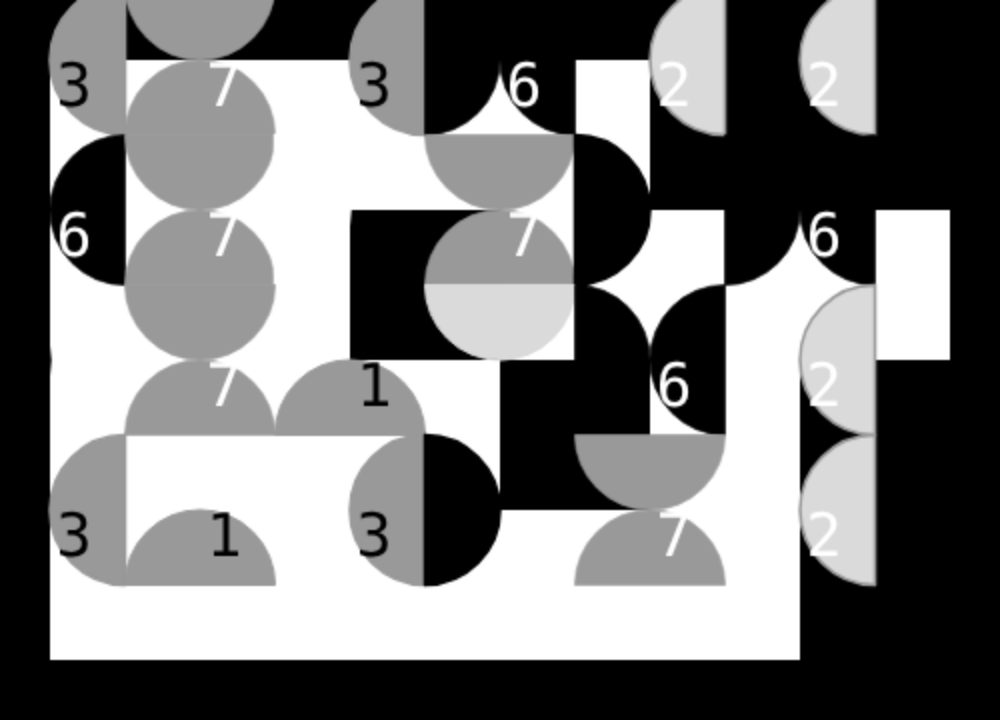
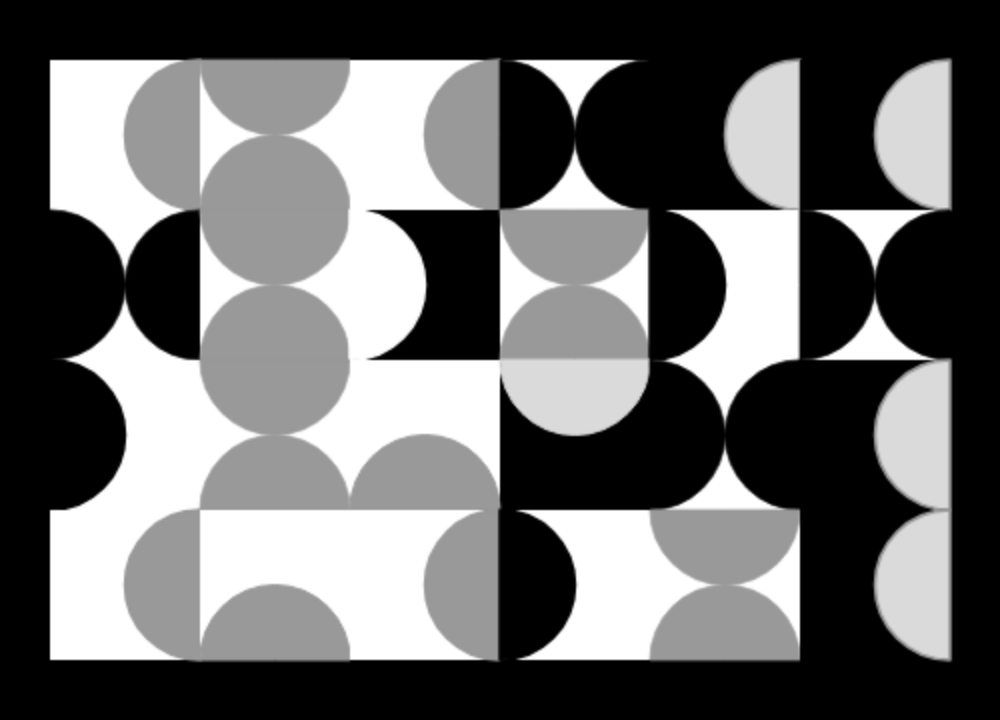
Legacy previews: fix centre-relative position ; digits off ; add full-page refs
Verification against a Silverquote value grid (HalfCircles, 44x26) surfaced a
rendering bug and firmed up the fidelity rules:

- Fix: part position [x,y] is relative to the cell CENTRE, not the top-left corner
  (negative offsets like [0,-12.5] place parts on cell edges). Re-rendered previews.
- Previews now render with digit marks OFF (Silverquote's view toggle) and the default
  black outline, so only shape-bearing previews change.
- Add full-page references (digits off): Default/NestedSquares/Polygram/HalfCircles
  _fullpage.png.
- schemas/pattern.spec.md: document the 3 rendering rules the live engine must honour
  (centre-relative position, default black outline, digit_mark as optional overlay) +
  the sub-pixel seam note. schemas/LEGACY_PATTERNS_REPORT.md: record the cell-for-cell
  verification.

diff --git a/schemas/pattern.spec.md b/schemas/pattern.spec.md
@@ -160,3 +160,22 @@ Script Python/JS complétant le schéma pour les points 5 : résolution des `$re
 ## 8. Points d'extension (lien RFC)
 - **`icon` inline** : ajouter `icon_data` (data-URI/base64) à côté de `icon_url` -> pattern auto-contenu, corrige 6.1. Bon usage de Base64 (binaire).
 - **Forme procédurale** : `type:"script"`, corps **lisible** (tableau de lignes, pas Base64) + **sandbox** (façade restreinte, `contextIsolation`). Concept générique M2 (« réalisation déclarative ou procédurale »), corps concrets en M0.
+
+---
+
+## Rendering rules (fidelity to Silverquote)
+
+Verified cell-for-cell against Silverquote (using an exported value grid). The live
+engine (§15.4 `layer-pattern`) MUST implement these, or renders diverge:
+
+1. **`position: [x, y]` is relative to the cell CENTRE**, not the top-left corner.
+   With `NumberFormat: "absolute"` the offsets are pixels (e.g. `["0","-12.5"]` places
+   a part on the top edge of a 25 px cell); with `"percent"` they are fractions ×
+   `CellSize`. String anchors (`center`, `N`, `NE`, …) are centre-relative too.
+2. **Filled shapes get a default BLACK outline** when the part declares no `drawColor`.
+   An explicit `"drawColor": "none"` suppresses the outline.
+3. **`digit_mark` is an optional VIEW overlay** (Silverquote's `5∣3/6` toolbar toggle),
+   not an always-drawn part — the renderer must be able to hide all digit marks.
+
+Known gap: at non-integer cell sizes, adjacent cell fills can leave thin sub-pixel
+seams (faint grid lines). Snap cell boxes to integer pixels to avoid them.

diff --git a/docs/reboot-kit/LD_FileTree.md b/docs/reboot-kit/LD_FileTree.md
@@ -1,6 +1,6 @@
 # Layout Designer — Repository File Tree
 
-*Generated from `git ls-files` (617 tracked files). Directory-level map; `node_modules` / build / cache folders are collapsed to a count. ★ = live authority file (core contract or architecture spec — read it from HEAD, never recite from memory). Regenerate with `cli_tools/ld_generate_filetree.py` after structural changes, then reload it into Project Knowledge.*
+*Generated from `git ls-files` (620 tracked files). Directory-level map; `node_modules` / build / cache folders are collapsed to a count. ★ = live authority file (core contract or architecture spec — read it from HEAD, never recite from memory). Regenerate with `cli_tools/ld_generate_filetree.py` after structural changes, then reload it into Project Knowledge.*
 
 - **assets/**
   - **legacy/**
@@ -615,9 +615,12 @@
     - arcs.png
     - default.png
     - Default_fullpage.png
+    - HalfCircles_fullpage.png
     - iching.png
     - moire.png
+    - NestedSquares_fullpage.png
     - polygram.png
+    - Polygram_fullpage.png
     - quad-square.png
     - quad-triangle.png
     - rectangles.png

diff --git a/schemas/LEGACY_PATTERNS_REPORT.md b/schemas/LEGACY_PATTERNS_REPORT.md
@@ -67,6 +67,13 @@ the Silverquote Default.pattern display.
 > When the live engine renders `.lygrid` for real (§15.4), port this same default-outline
 > rule into the `layer-pattern` primitive drawing.
 
+## Cell-for-cell verification
+
+HalfCircles was verified **cell-for-cell** against a Silverquote run (exported value
+grid, 44x26). This surfaced the centre-relative `position` rule; see the three
+rendering rules in `pattern.spec.md`. Full-page references (digits off) are in
+`screenshots/legacy/*_fullpage.png` for Default, NestedSquares, Polygram, HalfCircles.
+
 ## Next step (optional)
 
 Fold this grammar into `schemas/` as the `.lygrid` validator for the real §15.4
